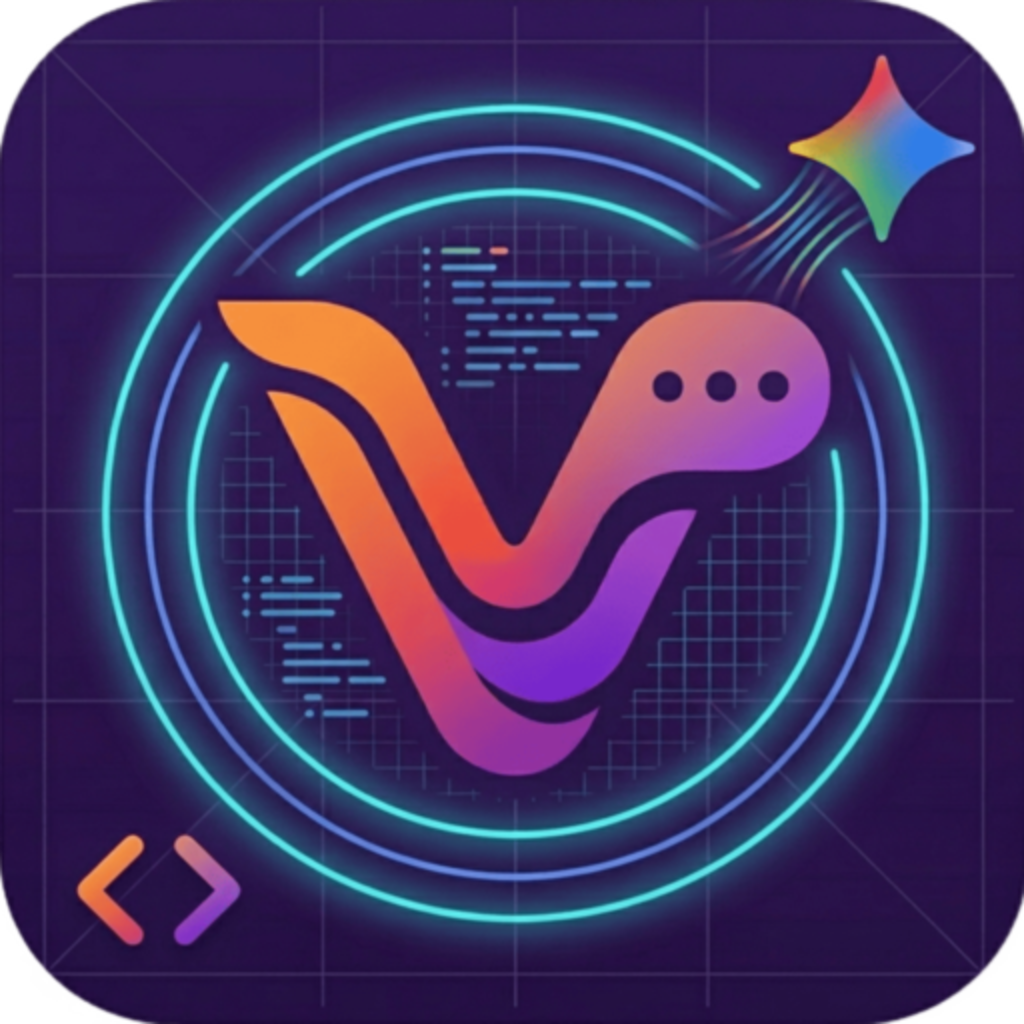
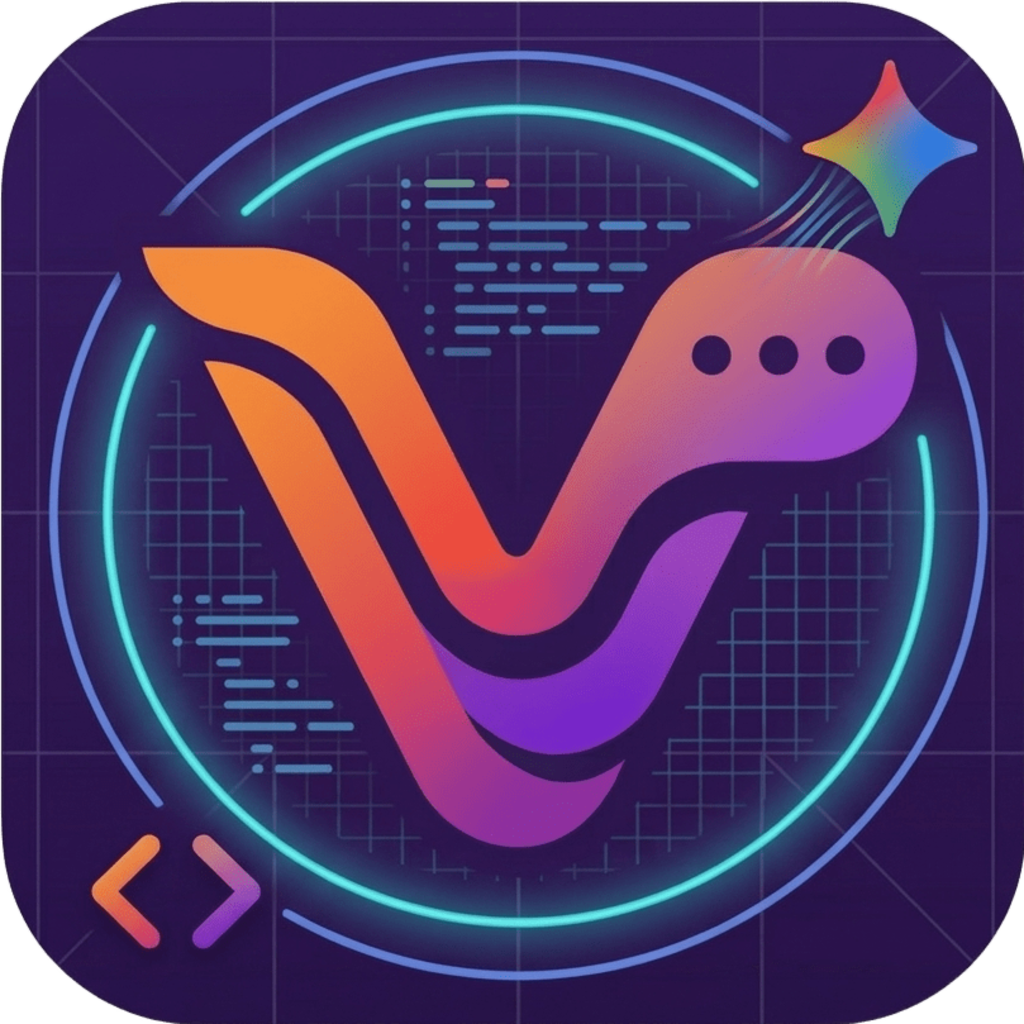
feat: update miniapp share URL parameter
Change the URL query parameter from miniapp_fullscreen to miniapp to correctly reflect the intended linking behavior.

diff --git a/src/miniapps.ts b/src/miniapps.ts
@@ -1246,7 +1246,7 @@ export async function copyMiniAppDirectLink() {
 
   try {
     const baseUrl = "https://dmitrijai.github.io/Vibegram-PRO";
-    const shareUrl = `${baseUrl}/?miniapp_fullscreen=${data.id}`;
+    const shareUrl = `${baseUrl}/?miniapp=${data.id}`;
 
     const copySuccess = () => {
       import("./utils").then((m) =>